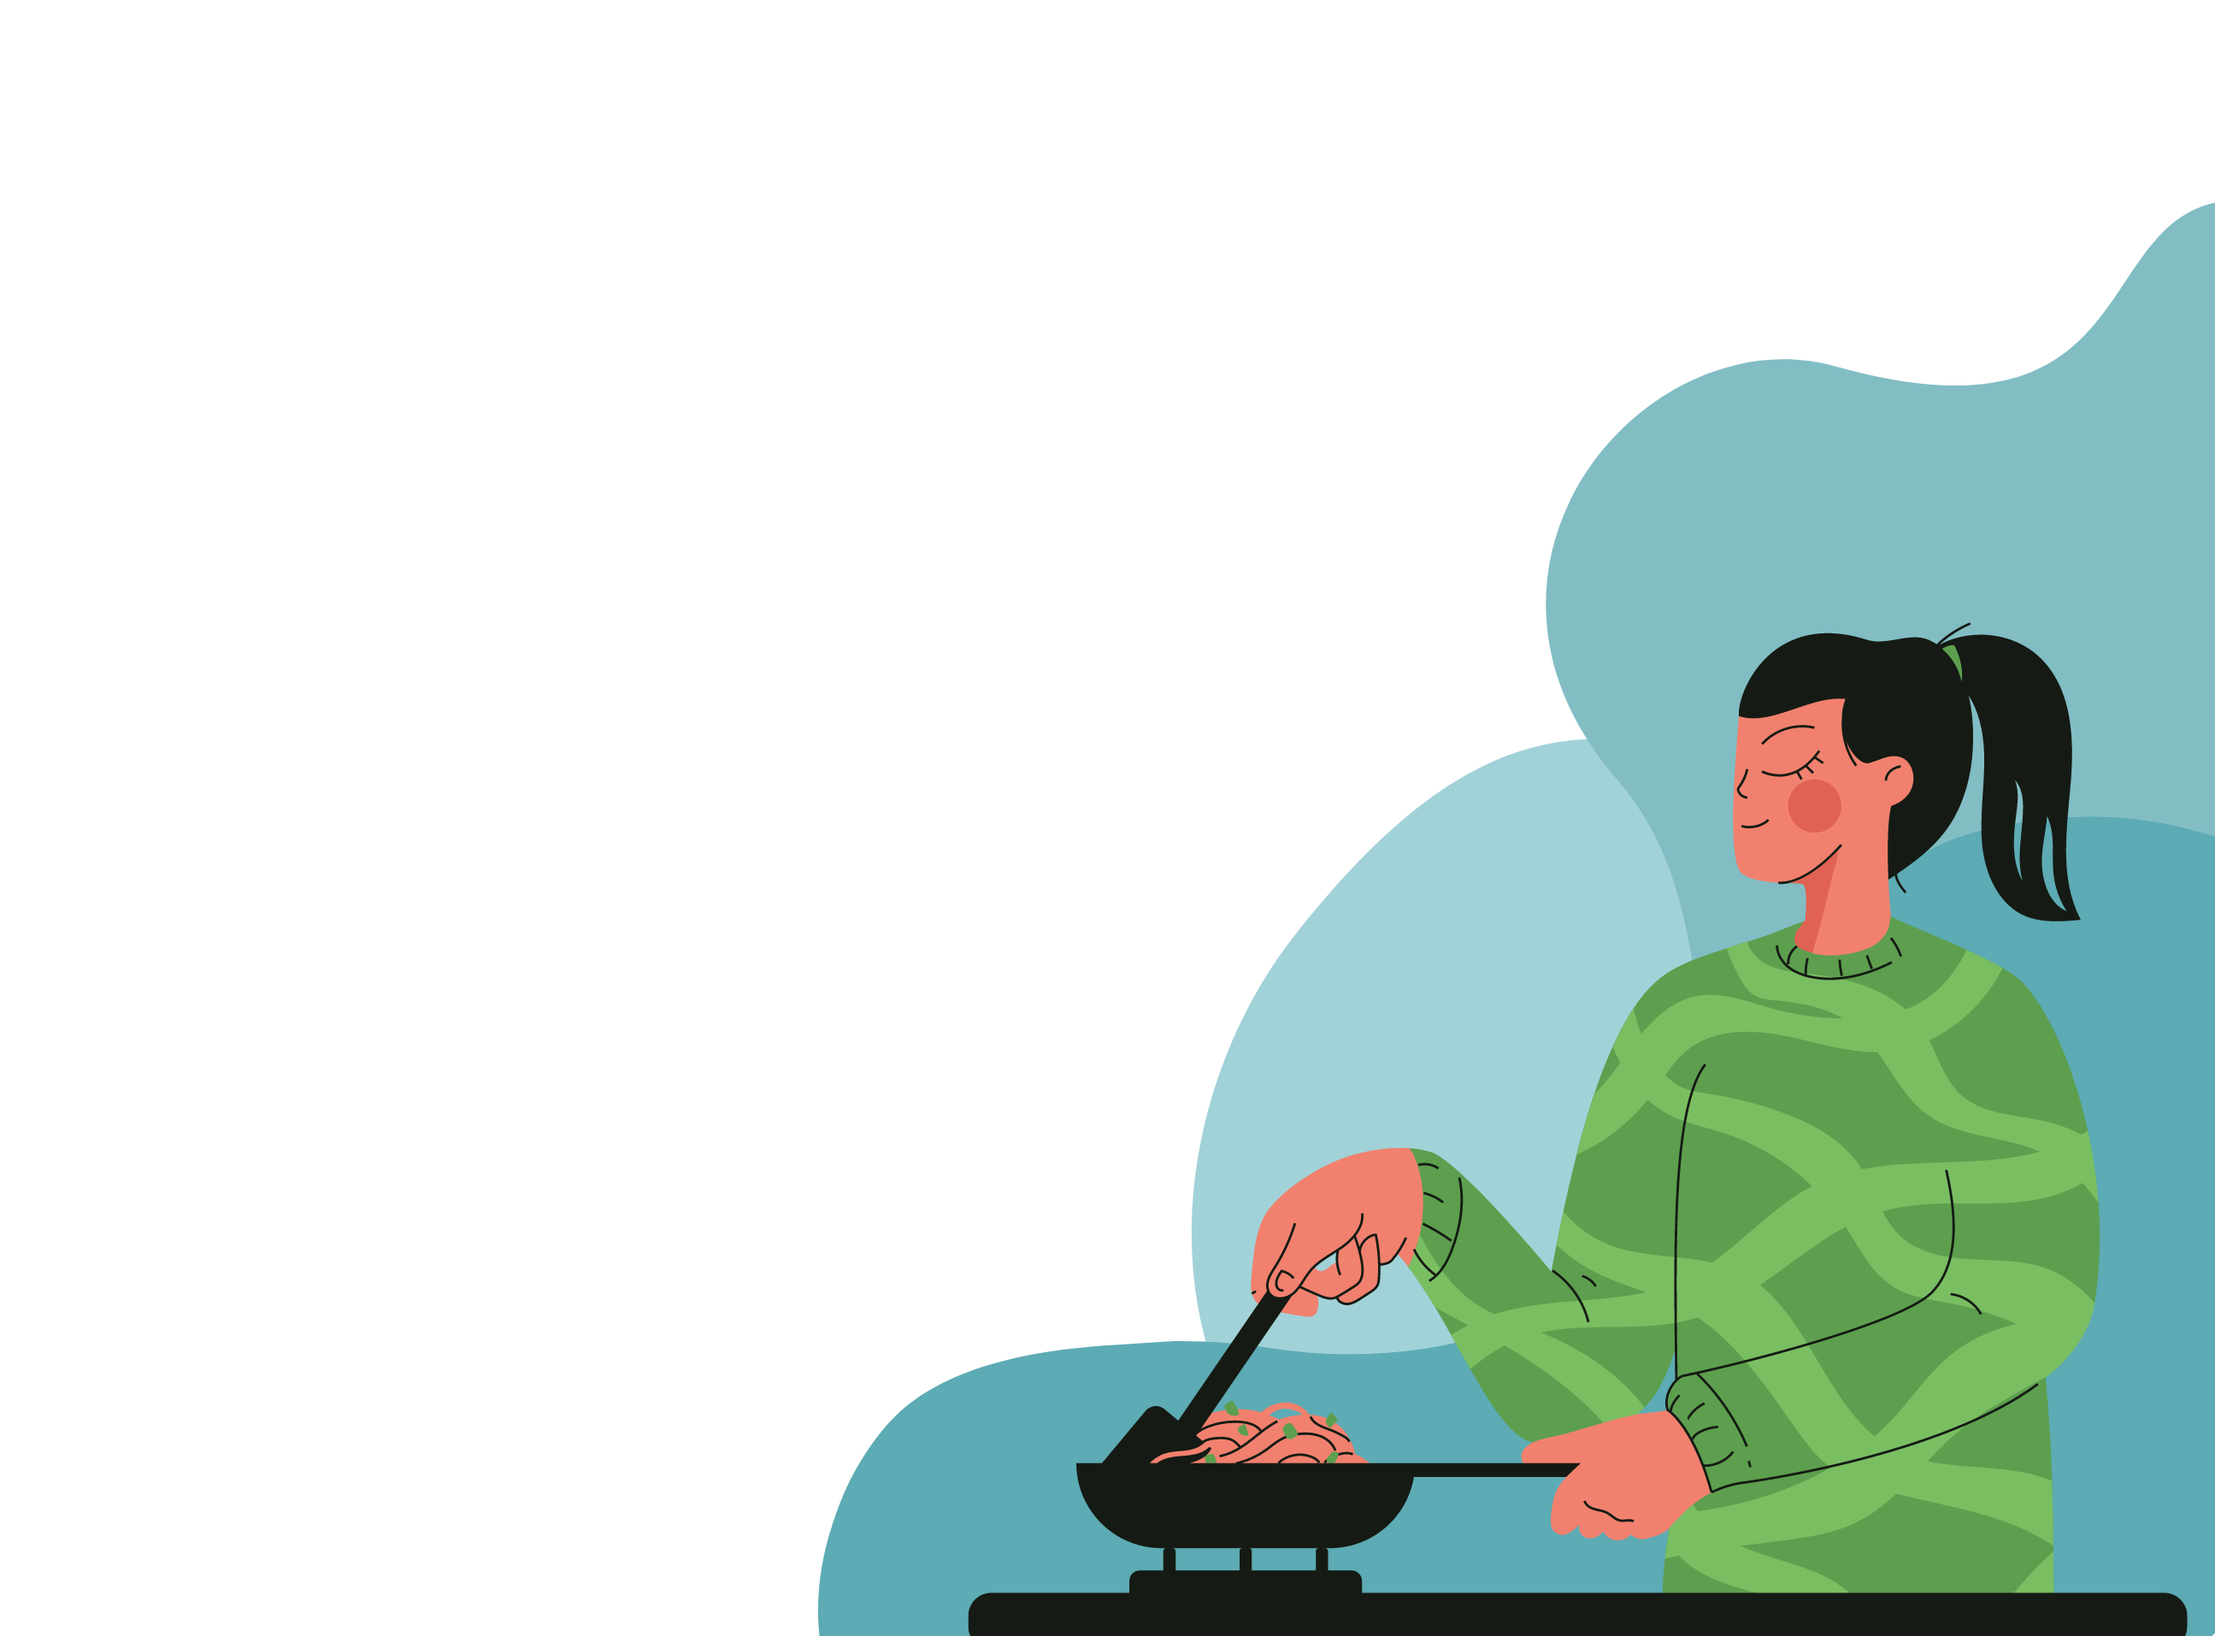
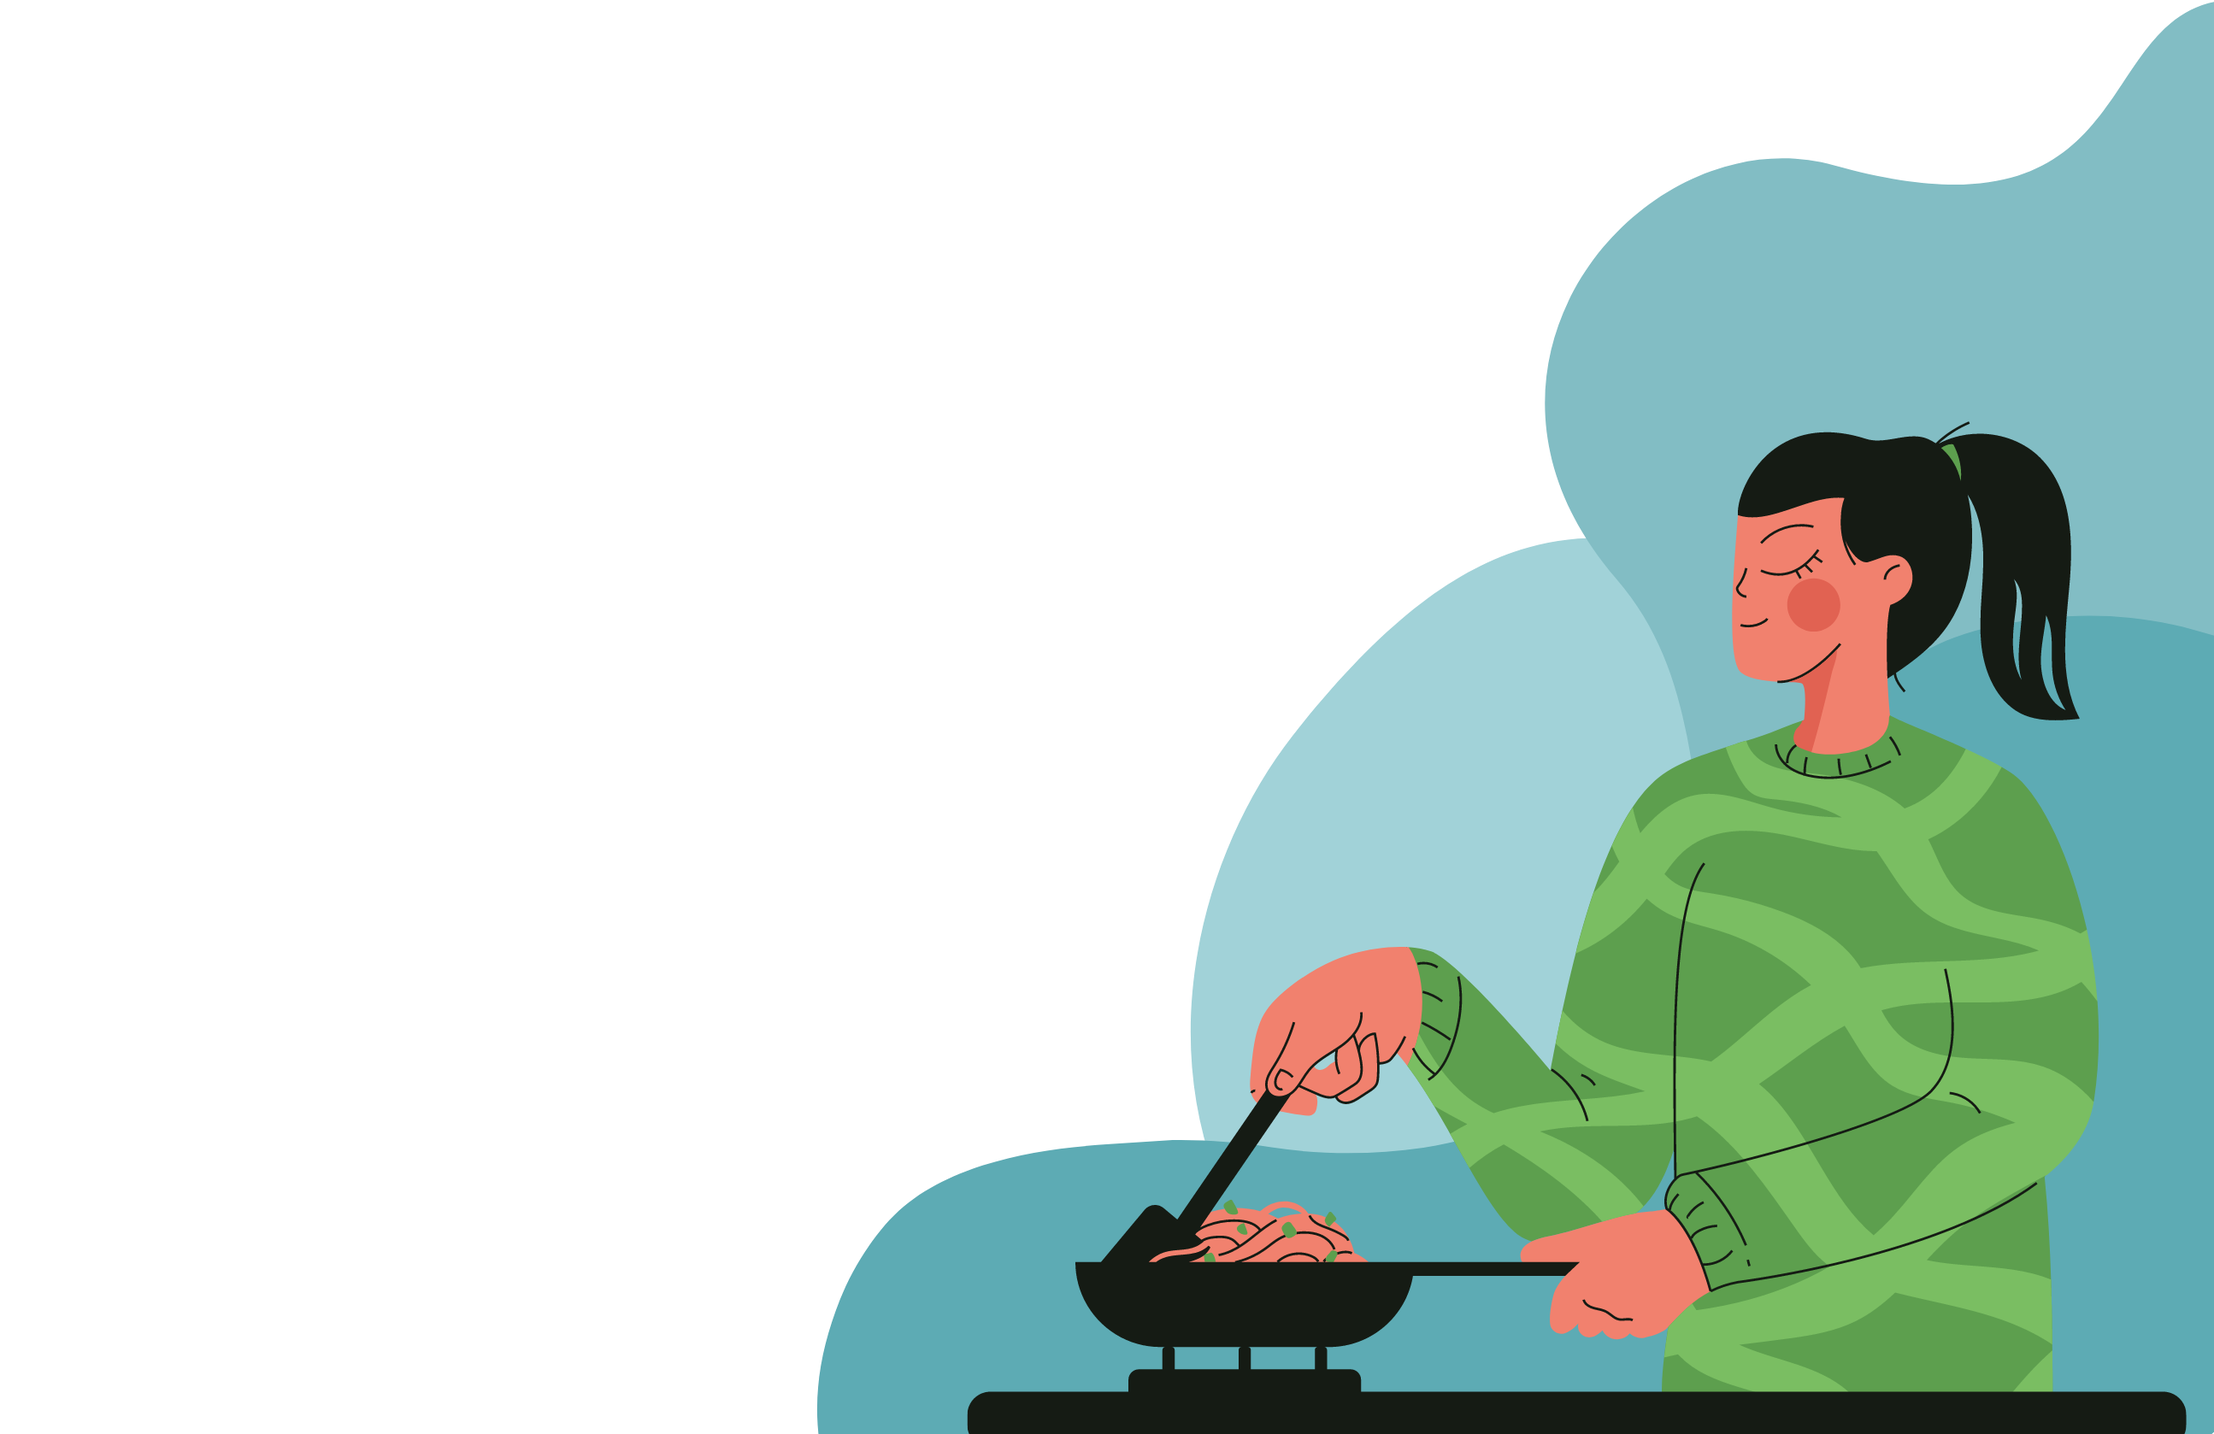
Updated home background pic

diff --git a/src/containers/HomePage.js b/src/containers/HomePage.js
@@ -11,8 +11,8 @@ export const HomePage = () => {
   return (
     <div className="HomePage" style={{
       backgroundImage: `url(${bg[rand]})`,
-      backgroundPosition: 'right',
-      backgroundSize: 'cover',
+      backgroundPosition: 'right bottom',
+      backgroundSize: 'contain',
       backgroundRepeat: 'no-repeat'
     }}>
       <div className="home-header-container">

diff --git a/src/css/Home.css b/src/css/Home.css
@@ -51,7 +51,7 @@ h2 {
 }
 
 .home-text {
-  margin-left: 3em;
+  margin-left: 2em;
   align-self: center;
 }
 
@@ -60,7 +60,6 @@ h2 {
 }
 
 .body-text {
-  padding-top: 1em;
   padding-bottom: 1em;
   font-family: "GlacialIndifference", "Arial";
   font-size: 1.3em;
